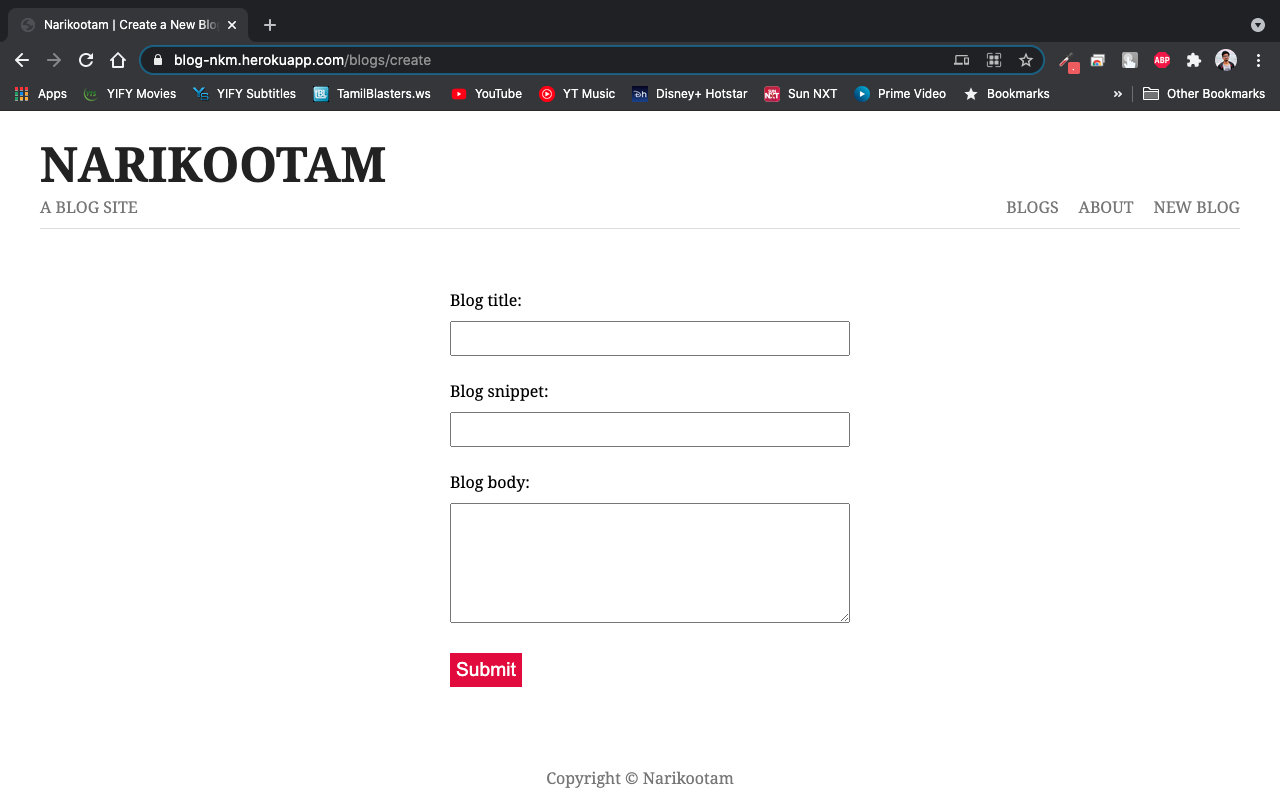
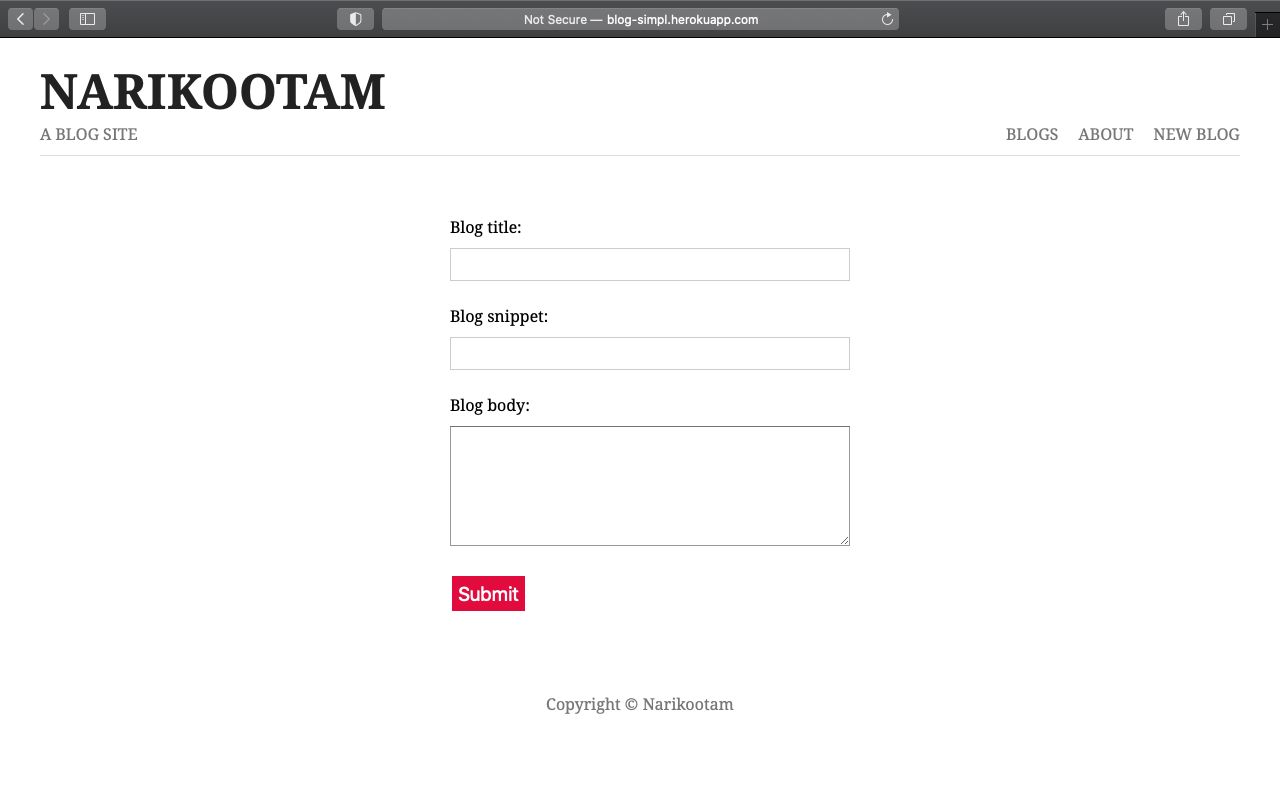
README updated

diff --git a/README.md b/README.md
@@ -1,0 +1,44 @@
+
+<h1 align="center">
+<a href="https://github.com/Sabarinathan07/Simple-Blog">Simple Blog
+</a><br/><br/>
+<img src="https://neilpatel.com/wp-content/uploads/2018/10/blog.jpg">
+</br>
+</h1>
+<h4 align="center">My first Application using nodeJS, Express and MongoDB</h4>
+<p align="center">
+</p>
+
+> This is a classic _blog_. To add your blog just click on _New_ _Blog_ in the navigationl bar. And then add your title, snippet and the blog.
+
+
+<h1 align="center">
+<a href="https://blog-simpl.herokuapp.com/">
+<img src="https://github.com/Sabarinathan07/Simple-Blog/blob/master/screenshots/create-blog.png?raw=true"/>
+</h1></a>
+
+
+## Homepage
+
+<h1 align="center">
+<img src="https://github.com/Sabarinathan07/Simple-Blog/blob/master/screenshots/homepage.png?raw=true" width="500px"/>
+</h1>
+
+>This app uses MongoDB as the database 
+
+## Development
+
+### Run app
+
+1. git clone ```https://github.com/Sabarinathan07/Simple-Blog.git```
+2. ```cd Simple-Blog```
+3. ```npm install && npm start  ```
+
+
+<h3 align="center">or</h3>
+
+View a live demo of this project on [Heroku](https://blog-simpl.herokuapp.com/)
+
+
+
+
